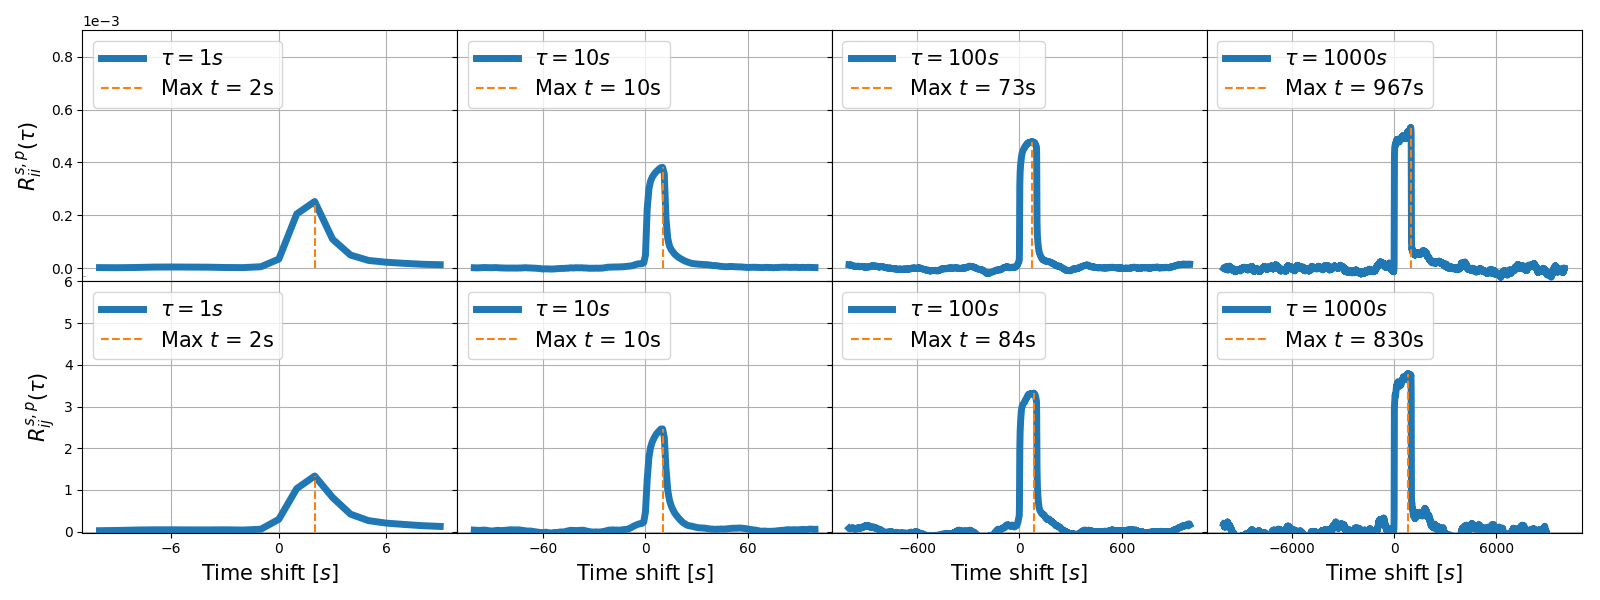
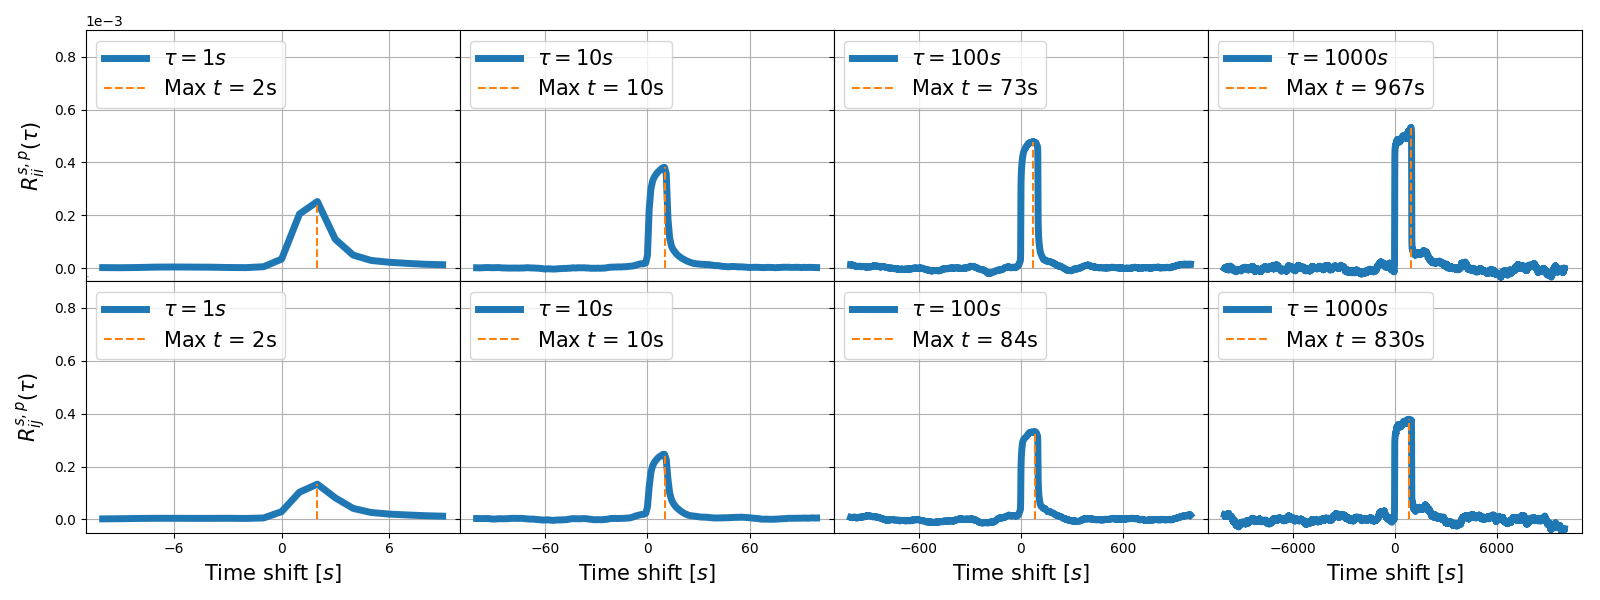
Fix mistake in plot scales

diff --git a/paper/algorithms/04_shift.py b/paper/algorithms/04_shift.py
@@ -117,6 +117,7 @@ def taq_trade_scale_shift_year_avg_plot(ticker_i, ticker_j, year, taus):
                      label=r'Max $t$ = {} trades'
                      .format(max_pos_ax2 - 10 * taus[1]))
 
+            ax2.set_ylim(-0.5 * 10**-4, 9 * 10**-4)
             ax2.legend(loc='upper left', fontsize=15)
             ax2.grid(True)
 
@@ -142,6 +143,7 @@ def taq_trade_scale_shift_year_avg_plot(ticker_i, ticker_j, year, taus):
                      label=r'Max $t$ = {} trades'
                      .format(max_pos_ax3 - 10 * taus[2]))
 
+            ax3.set_ylim(-0.5 * 10**-4, 9 * 10**-4)
             ax3.legend(loc='upper left', fontsize=15)
             ax3.grid(True)
 
@@ -167,6 +169,7 @@ def taq_trade_scale_shift_year_avg_plot(ticker_i, ticker_j, year, taus):
                      label=r'Max $t$ = {} trades'
                      .format(max_pos_ax4 - 10 * taus[3]))
 
+            ax4.set_ylim(-0.5 * 10**-4, 9 * 10**-4)
             ax4.legend(loc='upper left', fontsize=15)
             ax4.grid(True)
 
@@ -195,7 +198,7 @@ def taq_trade_scale_shift_year_avg_plot(ticker_i, ticker_j, year, taus):
             ax5.set_ylabel(r'$R^{s,t}_{ij}(\tau)$', fontsize=15)
             ax5.tick_params(axis='x', labelsize=10)
             ax5.tick_params(axis='y', labelsize=10)
-            ax5.set_ylim(-0.025 * 10**-4, 7 * 10**-4)
+            ax5.set_ylim(-0.5 * 10**-4, 9 * 10**-4)
             ax5.ticklabel_format(style='sci', axis='y', scilimits=(0, 0))
             ax5.yaxis.offsetText.set_fontsize(0)
             ax5.xaxis.set_major_locator(ticker.MaxNLocator(4))
@@ -224,6 +227,7 @@ def taq_trade_scale_shift_year_avg_plot(ticker_i, ticker_j, year, taus):
             ax6.legend(loc='upper left', fontsize=15)
             ax6.set_xlabel(r'Trade shift [trades]', fontsize=15)
             ax6.tick_params(axis='x', labelsize=10)
+            ax6.set_ylim(-0.5 * 10**-4, 9 * 10**-4)
             ax6.xaxis.set_major_locator(ticker.MaxNLocator(4))
             ax6.grid(True)
 
@@ -250,6 +254,7 @@ def taq_trade_scale_shift_year_avg_plot(ticker_i, ticker_j, year, taus):
             ax7.legend(loc='upper left', fontsize=15)
             ax7.set_xlabel(r'Trade shift [trades]', fontsize=15)
             ax7.tick_params(axis='x', labelsize=10)
+            ax7.set_ylim(-0.5 * 10**-4, 9 * 10**-4)
             ax7.xaxis.set_major_locator(ticker.MaxNLocator(4))
             ax7.grid(True)
 
@@ -276,6 +281,7 @@ def taq_trade_scale_shift_year_avg_plot(ticker_i, ticker_j, year, taus):
             ax8.legend(loc='upper left', fontsize=15)
             ax8.set_xlabel(r'Trade shift [trades]', fontsize=15)
             ax8.tick_params(axis='x', labelsize=10)
+            ax8.set_ylim(-0.5 * 10**-4, 9 * 10**-4)
             ax8.xaxis.set_major_locator(ticker.MaxNLocator(4))
             ax8.grid(True)
 
@@ -380,6 +386,7 @@ def taq_physical_scale_shift_year_avg_plot(ticker_i, ticker_j, year, taus):
                      label=r'Max $t$ = {}s'
                      .format(max_pos_ax2 - 10 * taus[1]))
 
+            ax2.set_ylim(-0.5 * 10**-4, 9 * 10**-4)
             ax2.legend(loc='upper left', fontsize=15)
             ax2.grid(True)
 
@@ -405,6 +412,7 @@ def taq_physical_scale_shift_year_avg_plot(ticker_i, ticker_j, year, taus):
                      label=r'Max $t$ = {}s'
                      .format(max_pos_ax3 - 10 * taus[2]))
 
+            ax3.set_ylim(-0.5 * 10**-4, 9 * 10**-4)
             ax3.legend(loc='upper left', fontsize=15)
             ax3.grid(True)
 
@@ -430,6 +438,7 @@ def taq_physical_scale_shift_year_avg_plot(ticker_i, ticker_j, year, taus):
                      label=r'Max $t$ = {}s'
                      .format(max_pos_ax4 - 10 * taus[3]))
 
+            ax4.set_ylim(-0.5 * 10**-4, 9 * 10**-4)
             ax4.legend(loc='upper left', fontsize=15)
             ax4.grid(True)
 
@@ -458,7 +467,7 @@ def taq_physical_scale_shift_year_avg_plot(ticker_i, ticker_j, year, taus):
             ax5.set_ylabel(r'$R^{s,p}_{ij}(\tau)$', fontsize=15)
             ax5.tick_params(axis='x', labelsize=10)
             ax5.tick_params(axis='y', labelsize=10)
-            ax5.set_ylim(-0.025 * 10**-4, 6 * 10**-4)
+            ax5.set_ylim(-0.5 * 10**-4, 9 * 10**-4)
             ax5.ticklabel_format(style='sci', axis='y', scilimits=(0, 0))
             ax5.yaxis.offsetText.set_fontsize(0)
             ax5.xaxis.set_major_locator(ticker.MaxNLocator(4))
@@ -487,6 +496,7 @@ def taq_physical_scale_shift_year_avg_plot(ticker_i, ticker_j, year, taus):
             ax6.legend(loc='upper left', fontsize=15)
             ax6.set_xlabel(r'Time shift $[s]$', fontsize=15)
             ax6.tick_params(axis='x', labelsize=10)
+            ax6.set_ylim(-0.5 * 10**-4, 9 * 10**-4)
             ax6.xaxis.set_major_locator(ticker.MaxNLocator(4))
             ax6.grid(True)
 
@@ -513,6 +523,7 @@ def taq_physical_scale_shift_year_avg_plot(ticker_i, ticker_j, year, taus):
             ax7.legend(loc='upper left', fontsize=15)
             ax7.set_xlabel(r'Time shift $[s]$', fontsize=15)
             ax7.tick_params(axis='x', labelsize=10)
+            ax7.set_ylim(-0.5 * 10**-4, 9 * 10**-4)
             ax7.xaxis.set_major_locator(ticker.MaxNLocator(4))
             ax7.grid(True)
 
@@ -539,6 +550,7 @@ def taq_physical_scale_shift_year_avg_plot(ticker_i, ticker_j, year, taus):
             ax8.legend(loc='upper left', fontsize=15)
             ax8.set_xlabel(r'Time shift $[s]$', fontsize=15)
             ax8.tick_params(axis='x', labelsize=10)
+            ax8.set_ylim(-0.5 * 10**-4, 9 * 10**-4)
             ax8.xaxis.set_major_locator(ticker.MaxNLocator(4))
             ax8.grid(True)
 
@@ -646,7 +658,7 @@ def taq_trade_scale_responses_year_avg_shift_plot(tickers, sectors, year,
                    fontsize=15)
         ax1.set_ylabel(r'$R^{s,t}_{ii}(\tau)$', fontsize=15)
         ax1.set_xlim(1, 1000)
-        # plt.ylim(13 * 10 ** -5, 16 * 10 ** -5)
+        ax1.set_ylim(-0.5 * 10 ** -4, 10 * 10 ** -4)
         ax1.tick_params(axis='y', labelsize=10)
         ax1.ticklabel_format(style='sci', axis='y', scilimits=(0, 0))
         ax1.yaxis.offsetText.set_fontsize(10)
@@ -655,7 +667,7 @@ def taq_trade_scale_responses_year_avg_shift_plot(tickers, sectors, year,
         ax2.semilogx(avg_val_self_2 / len(tickers), '-k', linewidth=5,
                      label=f'Average')
         ax2.set_xlim(1, 1000)
-        # plt.ylim(13 * 10 ** -5, 16 * 10 ** -5)
+        ax2.set_ylim(-0.5 * 10 ** -4, 10 * 10 ** -4)
         ax2.grid(True)
 
         ax3.semilogx(avg_val_cross_1 / len(sectors), '-k', linewidth=5,
@@ -665,7 +677,7 @@ def taq_trade_scale_responses_year_avg_shift_plot(tickers, sectors, year,
         ax3.set_xlabel(r'$\tau \, [trades]$', fontsize=15)
         ax3.set_ylabel(r'$R^{s,t}_{ij}(\tau)$', fontsize=15)
         ax3.set_xlim(1, 1000)
-        # plt.ylim(13 * 10 ** -5, 16 * 10 ** -5)
+        ax3.set_ylim(-0.5 * 10 ** -4, 10 * 10 ** -4)
         ax3.tick_params(axis='x', labelsize=10)
         ax3.tick_params(axis='y', labelsize=10)
         ax3.ticklabel_format(style='sci', axis='y', scilimits=(0, 0))
@@ -676,7 +688,7 @@ def taq_trade_scale_responses_year_avg_shift_plot(tickers, sectors, year,
                      label=f'Average')
         ax4.set_xlabel(r'$\tau \, [trades]$', fontsize=15)
         ax4.set_xlim(1, 1000)
-        # ax4.ylim(4 * 10 ** -5, 9 * 10 ** -5)
+        ax4.set_ylim(-0.5 * 10 ** -4, 10 * 10 ** -4)
         ax4.tick_params(axis='x', labelsize=10)
         ax4.tick_params(axis='y', labelsize=10)
         ax4.ticklabel_format(style='sci', axis='y', scilimits=(0, 0))
@@ -787,7 +799,7 @@ def taq_physical_scale_responses_year_avg_shift_plot(tickers, sectors, year,
                    fontsize=15)
         ax1.set_ylabel(r'$R^{s,p}_{ii}(\tau)$', fontsize=15)
         ax1.set_xlim(1, 1000)
-        # plt.ylim(13 * 10 ** -5, 16 * 10 ** -5)
+        ax1.set_ylim(-0.5 * 10 ** -4, 10 * 10 ** -4)
         ax1.tick_params(axis='y', labelsize=10)
         ax1.ticklabel_format(style='sci', axis='y', scilimits=(0, 0))
         ax1.yaxis.offsetText.set_fontsize(10)
@@ -796,7 +808,7 @@ def taq_physical_scale_responses_year_avg_shift_plot(tickers, sectors, year,
         ax2.semilogx(avg_val_self_2 / len(tickers), '-k', linewidth=5,
                      label=f'Average')
         ax2.set_xlim(1, 1000)
-        # plt.ylim(13 * 10 ** -5, 16 * 10 ** -5)
+        ax2.set_ylim(-0.5 * 10 ** -4, 10 * 10 ** -4)
         ax2.grid(True)
 
         ax3.semilogx(avg_val_cross_1 / len(sectors), '-k', linewidth=5,
@@ -804,9 +816,9 @@ def taq_physical_scale_responses_year_avg_shift_plot(tickers, sectors, year,
         ax3.legend(loc='upper center', bbox_to_anchor=(1.0, -0.2), ncol=4,
                    fontsize=15)
         ax3.set_xlabel(r'$\tau \, [s]$', fontsize=15)
-        ax3.set_ylabel(r'$R^{s,p}_{ij}(\tau)$', fontsize=15)
+        ax3.set_ylim(-0.5 * 10 ** -4, 10 * 10 ** -4)
         ax3.set_xlim(1, 1000)
-        # plt.ylim(13 * 10 ** -5, 16 * 10 ** -5)
+        ax3.set_ylim(13 * 10 ** -5, 16 * 10 ** -5)
         ax3.tick_params(axis='x', labelsize=10)
         ax3.tick_params(axis='y', labelsize=10)
         ax3.ticklabel_format(style='sci', axis='y', scilimits=(0, 0))
@@ -817,7 +829,7 @@ def taq_physical_scale_responses_year_avg_shift_plot(tickers, sectors, year,
                      label=f'Average')
         ax4.set_xlabel(r'$\tau \, [s]$', fontsize=15)
         ax4.set_xlim(1, 1000)
-        # ax4.ylim(4 * 10 ** -5, 9 * 10 ** -5)
+        ax4.set_ylim(-0.5 * 10 ** -4, 10 * 10 ** -4)
         ax4.tick_params(axis='x', labelsize=10)
         ax4.tick_params(axis='y', labelsize=10)
         ax4.ticklabel_format(style='sci', axis='y', scilimits=(0, 0))
